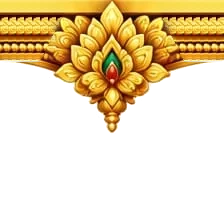
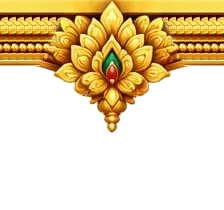
Frame: match band's lower rim to the corner arches; motto in header
- The corner arches' gold rim ended 5px below the band (rows 61-65), a
  visible spur at each top corner. The band tile gets that same rim
  (sampled from the corners' own edge), the top lotus piece is extended
  with it into its swag, and the joints are re-blended at the new height
- Kannada: "ಜ್ಞಾನ ಸುಧೆಯ ಭಂಡಾರ ✦ ಭಕ್ತಿ ಭಾವ ಸೂಸುವ ಮಂದಿರ" replaces
  "ಭಕ್ತಿ ಸಾಹಿತ್ಯದ ಮನೆ" as the tagline — two short lines under the name
  in the header (still one-row at 1280–1920px), and in the footer / Our
  Vision banner; removed from the middle of the home hero

Changed region(s): [[0.0, 0.1429, 0.25, 0.3143], [0.7812, 0.2286, 1.0, 0.3143], [0.75, 0.1429, 0.7812, 0.2286]]

diff --git a/app/components/home/Hero.tsx b/app/components/home/Hero.tsx
@@ -8,7 +8,7 @@ import LanguageComingSoon from "./LanguageComingSoon";
 
 import { getAllBooks } from "../../lib/services/book-service";
 import { getLanguagePreference } from "../../lib/language";
-import { getT, getUiLang } from "../../lib/i18n/server";
+import { getT } from "../../lib/i18n/server";
 
 // How many of the newest covers feed the slider — getAllBooks() is already
 // ordered by created_at DESC, so slicing here just means the latest admin
@@ -17,7 +17,6 @@ const HERO_BOOK_LIMIT = 10;
 
 export default async function Hero() {
   const t = await getT();
-  const uiLang = await getUiLang();
   const language = await getLanguagePreference();
   const allBooks = await getAllBooks(language);
 
@@ -53,17 +52,6 @@ export default async function Hero() {
               {t("hero.title1")} <span>{t("hero.title2")}</span>
             </h1>
 
-            {/* Kannada motto under the name (client request 2026-09-27) —
-                Kannada interface only */}
-            {uiLang === "kn" && (
-              <p className="hero-motto" lang="kn">
-                <span>ಜ್ಞಾನ ಸುಧೆಯ ಭಂಡಾರ</span>
-                <span className="hero-motto__dot" aria-hidden="true">
-                  ✦
-                </span>
-                <span>ಭಕ್ತಿ ಭಾವ ಸೂಸುವ ಮಂದಿರ</span>
-              </p>
-            )}
 
             <p className="hero-description">
               {t("hero.description")}

diff --git a/app/components/layout/Navbar.tsx b/app/components/layout/Navbar.tsx
@@ -13,7 +13,7 @@ import { useT } from "@/app/lib/i18n/I18nProvider";
 
 export default function Navbar() {
   const pathname = usePathname();
-  const { t } = useT();
+  const { t, lang } = useT();
 
   const [menuOpen, setMenuOpen] = useState(false);
   const [searchOpen, setSearchOpen] = useState(false);
@@ -65,9 +65,21 @@ export default function Navbar() {
               {t("brand.name")}
             </h2>
 
-            <span>
-              {t("brand.tagline")}
-            </span>
+            {/* Kannada motto (client request 2026-09-27) on two short
+                lines so the brand stays narrow enough for a one-row header */}
+            {lang === "kn" ? (
+              <span className="brand-motto" lang="kn">
+                <span>
+                  ಜ್ಞಾನ ಸುಧೆಯ ಭಂಡಾರ{" "}
+                  <span className="brand-motto__dot" aria-hidden="true">✦</span>
+                </span>
+                <span>ಭಕ್ತಿ ಭಾವ ಸೂಸುವ ಮಂದಿರ</span>
+              </span>
+            ) : (
+              <span>
+                {t("brand.tagline")}
+              </span>
+            )}
 
           </div>
 

diff --git a/app/styles/home.css b/app/styles/home.css
@@ -31,38 +31,6 @@
     color:var(--color-primary);
 }
 
-/* Kannada motto under the hero name */
-.hero-motto{
-    display:flex;
-    flex-wrap:wrap;
-    justify-content:center;
-    align-items:center;
-    gap:6px 18px;
-    margin:-6px auto 18px;
-    font-family:var(--font-heading-kn), var(--font-heading), Georgia, serif;
-    font-size:24px;
-    font-weight:600;
-    color:#7c2d12;
-}
-
-.hero-motto__dot{
-    color:var(--color-accent-gold);
-    font-size:16px;
-}
-
-/* phones: one phrase per line, no dangling separator */
-@media(max-width:560px){
-.hero-motto{
-    flex-direction:column;
-    gap:2px;
-    font-size:19px;
-    margin:-4px auto 14px;
-}
-
-.hero-motto__dot{
-    display:none;
-}
-}
 
 .hero-tag{
     display:inline-block;

diff --git a/app/styles/layout.css b/app/styles/layout.css
@@ -85,6 +85,35 @@ a {
   margin-top: 3px;
 }
 
+/* Kannada motto under the brand name (Navbar.tsx) */
+.brand .brand-motto {
+  margin-top: 2px;
+  font-family: var(--font-heading-kn), var(--font-heading), Georgia, serif;
+  font-size: 12.5px;
+  font-weight: 600;
+  line-height: 1.35;
+  color: #7c2d12;
+}
+
+.brand .brand-motto > span {
+  display: block;
+  margin: 0;
+  font-size: inherit;
+  color: inherit;
+}
+
+.brand .brand-motto .brand-motto__dot {
+  display: inline;
+  color: var(--color-accent-gold);
+  font-size: 10px;
+}
+
+@media (max-width: 860px) {
+  .brand .brand-motto {
+    font-size: 11px;
+  }
+}
+
 .nav-links {
   display: flex;
   align-items: center;

diff --git a/app/lib/i18n/dictionary.ts b/app/lib/i18n/dictionary.ts
@@ -419,7 +419,7 @@ const kn: Record<I18nKey, string> = {
   "nav.cart": "ಕಾರ್ಟ್",
   "nav.more": "ಇನ್ನಷ್ಟು",
   "brand.name": "ಭಕ್ತಿ ಬುಕ್ಶೆಲ್ಫ್",
-  "brand.tagline": "ಭಕ್ತಿ ಸಾಹಿತ್ಯದ ಮನೆ",
+  "brand.tagline": "ಜ್ಞಾನ ಸುಧೆಯ ಭಂಡಾರ ✦ ಭಕ್ತಿ ಭಾವ ಸೂಸುವ ಮಂದಿರ",
   "about.vision": "ನಮ್ಮ ದೃಷ್ಟಿಕೋನ",
   "about.us": "ನಮ್ಮ ಬಗ್ಗೆ",
   "about.teamEyebrow": "ಭಕ್ತಿ ಬುಕ್ಶೆಲ್ಫ್ ಹಿಂದಿನ ತಂಡ",
